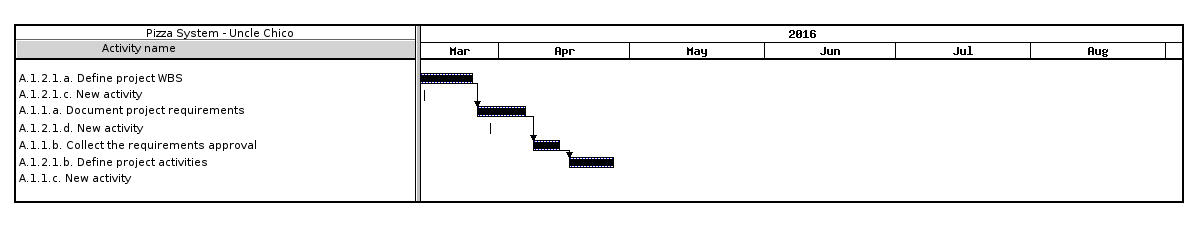
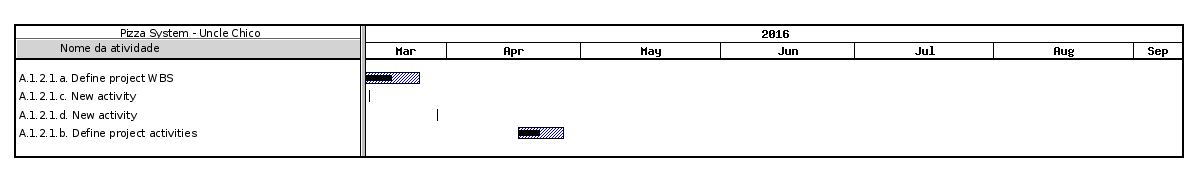
Ajustado título da tela da EAP e modificado menu lateral

Changed region(s): [[0.0, 0.0824, 0.9867, 0.9066], [0.4317, 0.6044, 0.5242, 0.7692]]

diff --git a/style/dotproject_plus/css/side-menu.css b/style/dotproject_plus/css/side-menu.css
@@ -63,15 +63,15 @@ a, a:hover, a:focus {
 }
 
 #sidebar {
-    /* don't forget to add all the previously mentioned styles here too */
-    background: #343a40;
-    color: #fff;
+    /*background: #343a40;*/
+    color: #343a40;
     transition: all 0.3s;
 }
 
 #sidebar .sidebar-header {
     padding: 20px;
-    background: #343a40;
+    color: #343a40;
+    /*background: #343a40;*/
 }
 
 #sidebar ul.components {
@@ -91,16 +91,18 @@ a, a:hover, a:focus {
     display: block;
 }
 #sidebar ul li a:hover {
+    text-decoration: underline;
     color: #343a40;
-    background: #fff;
+    background: #eee;
 }
 
 #sidebar ul li.active > a, #sidebar ul li.active > a[aria-expanded="true"] {
-    color: #fff;
-    background: #434a52;
+    color: #434a52;
+    background: #eee;
 }
 ul ul a {
     font-size: 0.9em !important;
     padding-left: 30px !important;
-    background: #434A52;
+    color: #343a40;
+    /*background: #434A52;*/
 }

diff --git a/modules/dotproject_plus/projects_tab.planning_and_monitoring.php b/modules/dotproject_plus/projects_tab.planning_and_monitoring.php
@@ -764,7 +764,8 @@ if ($_GET["show_external_page"] != "") {
     $currentPage = substr($_SERVER["REQUEST_URI"], strpos($_SERVER["REQUEST_URI"], "index.php") + 9);
 
     ?>
-    <h4><?=$AppUI->_("Planning and monitoring", UI_OUTPUT_HTML);?></h4>
+
+    <h4><?=$AppUI->_("Tasks",UI_OUTPUT_HTML)?></h4>
     <hr>
     <!-- Filter section -->
     <div class="row">
@@ -1107,6 +1108,9 @@ if ($_GET["show_external_page"] != "") {
                                 $taskCardBodyClass = $dom->createAttribute('class');
                                 $taskCardBodyClass->value = 'card-body';
                                 $taskCardBody->appendChild($taskCardBodyClass);
+                                $taskCardBodyStyle = $dom->createAttribute('style');
+                                $taskCardBodyStyle->value = 'padding: 10px 20px 1px 20px';
+                                $taskCardBody->appendChild($taskCardBodyStyle);
 
                                 $taskCardRow = $dom->createElement('div');
                                 $taskCardRowClass = $dom->createAttribute('class');
@@ -1354,8 +1358,28 @@ if ($_GET["show_external_page"] != "") {
                                 $spanClass->value = 'd-block';
                                 $span->appendChild($spanClass);
                                 $carCol6->appendChild($span);
-                                
+
                                 // Recursos humanos
+
+//                                $q = new DBQuery();
+//                                $q->addTable("contacts", 'c');
+//                                $q->addQuery("CONCAT(c.contact_first_name, ' ', c.contact_last_name)");
+//                                $q->addJoin('users', 'u', 'u.user_contact = c.contact_id');
+//                                $q->addJoin('human_resource', 'hr', 'hr.human_resource_user_id = u.user_id');
+//                                $q->addJoin('human_resource_allocation', 'hra', 'hra.human_resource_id = hr.human_resource_id');
+//                                $q->addJoin('project_tasks_estimated_roles', 'pter', 'hra.project_tasks_estimated_roles_id = pter.id');
+//                                $q->addWhere("pter.task_id=" . $task_id);
+//                                $sql = $q->prepare();
+//                                $q->clear();
+//                                $humanRes = db_loadList($sql);
+
+
+//                                foreach ($humanRes as $humanRe) {
+//                                    if ($task_id != 235) continue;
+//                                    var_dump($humanRes);
+//                                    $estimatedRolesTxt .= ', ' . $humanRe[0];
+//                                }
+//                                var_dump($estimatedRolesTxt);
                                 $estimatedRolesTxt = "";
                                 $rolesNonGrouped = $projectTaskEstimation->getRolesNonGrouped($task_id);
                                 $totalRoles = count($rolesNonGrouped);
@@ -1365,10 +1389,10 @@ if ($_GET["show_external_page"] != "") {
                                 // } else {
                                 //     $hasFilteredRH = false;
                                 // }
-                                
+//                                var_dump($rolesNonGrouped);
                                 foreach ($rolesNonGrouped as $role) {
                                     $role_estimated_id = $role->getQuantity(); // the quantity field is been used to store the estimated role id
-                                    $allocated_hr_id = ""; //Get the allocated HR  (maybe there is just the role without allocation, in this case write the role name)          
+                                    $allocated_hr_id = ""; //Get the allocated HR  (maybe there is just the role without allocation, in this case write the role name)
                                     //Get id of a possible old allocation to delete it
                                     $q = new DBQuery();
                                     $q->addTable("human_resource_allocation");
@@ -1376,13 +1400,16 @@ if ($_GET["show_external_page"] != "") {
                                     $q->addWhere("project_tasks_estimated_roles_id=" . $role_estimated_id);
                                     $sql = $q->prepare();
                                     $records = db_loadList($sql);
+
+
                                     foreach ($records as $record) {
                                         $allocated_hr_id = $record[0];
                                     }
+
                                     if ($allocated_hr_id != "") {
-                                        $estimatedRolesTxt.=$userNameByHRid[$allocated_hr_id]; //write user name
+                                        $estimatedRolesTxt.=$userNameByHRid[$allocated_hr_id];
                                     } else {
-                                        $estimatedRolesTxt.="<i style='color:red'>" . $roles[$role->getRoleId()] . "</i>";
+                                        $estimatedRolesTxt.= $roles[$role->getRoleId()];
                                     }
                                     if ($totalRoles > $i) {
                                         $estimatedRolesTxt.=", ";

diff --git a/modules/dotproject_plus/task_addedit.php b/modules/dotproject_plus/task_addedit.php
@@ -19,6 +19,13 @@ $project = new CProject();
 $project->load($projectId);
 $controllerCompanyRole = new ControllerCompanyRole();
 $rolesArr = $controllerCompanyRole->getCompanyRoles($project->project_company);
+
+
+// Todo carregar lista de papéis
+// human_resources_role
+
+
+
 $roles = array();
 foreach ($rolesArr as $r) {
 
@@ -141,6 +148,7 @@ $effortMetrics[2] = 'Pessoas/Dia';
                 $user_id = $res->fields["user_id"];
                 $user_name = $res->fields["contact_first_name"] . " " . $res->fields["contact_last_name"];
                 ?>
+                <option></option>
                 <option value="<?php echo $user_id; ?>">
                     <?php echo $user_name; ?>
                 </option>
@@ -156,7 +164,7 @@ $effortMetrics[2] = 'Pessoas/Dia';
             <div class="row row-role-hr">
                 <div class="col-md-6">
                     <div class="form-group">
-                        <select class="form-control form-control-sm">
+                        <select class="form-control form-control-sm select-role">
                             <?php
                             foreach ($roles as $r) {
                                 ?>
@@ -172,7 +180,7 @@ $effortMetrics[2] = 'Pessoas/Dia';
                 </div>
                 <div class="col-md-6">
                     <div class="form-group">
-                        <select class="form-control form-control-sm">
+                        <select class="form-control form-control-sm select-hr">
                             <?php
                             foreach ($hr as $record) {
                                 ?>
@@ -198,6 +206,8 @@ $effortMetrics[2] = 'Pessoas/Dia';
     <input name="roles_human_resources" type="hidden" value="" id="rolesHrHidden"/>
     <input type="hidden" id="taskWbsItemId" name="item_id" value="<?=$itemId?>" />
 </form>
+<?php
+?>
 
 <script>
 
@@ -221,15 +231,31 @@ $effortMetrics[2] = 'Pessoas/Dia';
             var selectsRoleHr = $(".row-role-hr").find('select');
             form.initSelect($(selectsRoleHr[0]), 'Papel');
             form.initSelect($(selectsRoleHr[1]), 'Recurso humano');
+
+
+
+
+
         },
 
         initSelect: function (select, placeholder) {
             select.select2({
                 placeholder: placeholder,
                 allowClear: true,
+                disabled: select.hasClass('select-hr') ? true : false,
                 theme: "bootstrap",
                 dropdownParent: $("#taskModal")
             });
+            if (select.hasClass('select-role')) {
+                var selectHr = select.parent().parent().next().children().children();
+                select.on('select2:select', function() {
+                    selectHr.attr('disabled', false);
+                });
+                select.on('select2:unselect', function() {
+                    selectHr.val(null).trigger('change');
+                    selectHr.attr('disabled', true);
+                });
+            }
         },
 
         addResource: function() {
@@ -238,7 +264,7 @@ $effortMetrics[2] = 'Pessoas/Dia';
 
             var colRole = $('<div class="col-md-6"></div>');
             var groupRole = $('<div class="form-group"></div>');
-            var selectRole = $('<select class="form-control form-control-sm"></select>');
+            var selectRole = $('<select class="form-control form-control-sm select-role"></select>');
             $('<option></option>').appendTo(selectRole);
             form.roles.forEach(function(role) {
                 $('<option value="'+role.id+'">'+role.name+'</option>').appendTo(selectRole);
@@ -249,7 +275,7 @@ $effortMetrics[2] = 'Pessoas/Dia';
 
             var colHr = $('<div class="col-md-6"></div>');
             var groupHr = $('<div class="form-group"></div>');
-            var selectHr = $('<select class="form-control form-control-sm"></select>');
+            var selectHr = $('<select class="form-control form-control-sm select-hr" disabled></select>');
             $('<option></option>').appendTo(selectHr);
             form.hrs.forEach(function(hr) {
                 $('<option value="'+hr.human_resource_id+'">'+hr.user_username+'</option>').appendTo(selectHr);

diff --git a/modules/projects/view.php b/modules/projects/view.php
@@ -171,22 +171,21 @@ $style = ((($actual_end_date > $end_date) && !empty($end_date)) ? 'style="color:
 </form>
 
 <!-- start main section - left project menu and EAP and tasks tree -->
-
 <!-- Sidebar -->
-<nav id="sidebar">
+<nav id="sidebar" style="margin-top:70px;">
     <div class="sidebar-header">
         <h5 class="text-right">
             <i id="sidebarCollapse" class="mouse-cursor-pointer fas fa-angle-double-left" style="margin-top: 20px;"></i>
         </h5>
     </div>
     <?php
-        if (!isset($_GET["tab"])) {
-            $tab = 1;
-            $_SESSION["user_choosen_feature"] = "/modules/dotproject_plus/projects_tab.planning_and_monitoring.php";
-        } else {
-            $tab = $_GET["tab"];
-            $_SESSION["user_choosen_feature"] = $_POST["user_choosen_feature"];
-        }
+//        if (!isset($_GET["tab"])) {
+//            $tab = 1;
+//            $_SESSION["user_choosen_feature"] = "/modules/dotproject_plus/projects_tab.planning_and_monitoring.php";
+//        } else {
+//            $tab = $_GET["tab"];
+//            $_SESSION["user_choosen_feature"] = $_POST["user_choosen_feature"];
+//        }
 
         if (!isset($_GET["subtab"])) {
             $subtab = 0;
@@ -279,7 +278,12 @@ $style = ((($actual_end_date > $end_date) && !empty($end_date)) ? 'style="color:
 </nav>
 
 <!-- Page Content -->
-<div id="content">
+<div id="content" style="margin-top:70px;">
+    <div class="row" style="position: relative; top: -60px; left: -290px;">
+        <div class="col-md-12">
+            <h1>aqui vai os dads do projeto</h1>
+        </div>
+    </div>
     <fieldset>
         <div class="alert alert-primary" role="alert" style="display: none">
             <a class="alert-link" id="projectDetailsLink" data-toggle="collapse" href="#project_details">

diff --git a/modules/dotproject_plus/do_save_activity_estimations.php b/modules/dotproject_plus/do_save_activity_estimations.php
@@ -22,6 +22,7 @@ $startDate = $_POST["planned_start_date_activity"];
 $endDate = $_POST["planned_end_date_activity"];
 $task_percent_complete=$_POST["task_percent_complete"];
 
+
 $rolesHr = $_POST['roles_human_resources'];
 
 $rolesHr = json_decode($rolesHr, true);
@@ -103,7 +104,6 @@ $projectTaskEstimation->store($taskId, $duration, $effort, $effortUnit, $rolesId
 $allocationRoleHR= new CHumanResourceAllocation();
 $allocationRoleHR->delete($taskId);
 
-
 // Insert the new ones
 foreach ($rolesHr as $line) {
     if (null !== $line['hr']) {
@@ -112,12 +112,12 @@ foreach ($rolesHr as $line) {
         $q->addQuery("id");
         $q->addWhere("role_id=".$line['role']." and task_id=".$taskId);
         $sql = $q->prepare();
+        $q->clear();
         $records = db_loadList($sql);
-        $allocationRoleHR->human_resource_id = $line['hr'];
-        $allocationRoleHR->project_tasks_estimated_roles_id=$records[0][0];
+//        $allocationRoleHR->human_resource_id = $line['hr'];
+//        $allocationRoleHR->project_tasks_estimated_roles_id=$records[0][0];
         $userId=getUserIdByHR($line['hr']);
-        $allocationRoleHR->store($taskId, $userId);
-        $i++;
+        $allocationRoleHR->store($taskId, $userId, $line['hr'], $records[0][0]);
     }
 
 }

diff --git a/style/dotproject_plus/header.php b/style/dotproject_plus/header.php
@@ -85,8 +85,8 @@ mysql_query('SET character_set_results=utf8');
             <ul class="navbar-nav">
                 <!-- Dropdown -->
                 <li class="nav-item dropdown">
-                    <a class="nav-link dropdown-toggle" href="#" id="navbardrop" data-toggle="dropdown">
-                        <?php echo $AppUI->user_first_name . ' ' . $AppUI->user_last_name; ?>
+                    <a class="nav-link dropdown-toggle" href="javascript:void(0)" data-toggle="dropdown">
+                        <?=$AppUI->user_first_name . ' ' . $AppUI->user_last_name; ?>
                     </a>
                     <div class="dropdown-menu dropdown-menu-right">
                         <a class="dropdown-item" href="./index.php?m=admin&amp;a=viewuser&amp;user_id=<?php echo $AppUI->user_id ?>">

diff --git a/modules/human_resources/human_resources.class.php b/modules/human_resources/human_resources.class.php
@@ -82,7 +82,7 @@ class CHumanResourceAllocation extends CDpObject {
 		return true;
 	}
 	
-	function store($task_id, $user_id) {
+	function store($task_id, $user_id, $hrId, $taskEstmatedRoleId) {
 		
 		$q = new DBQuery;		
 		$q->addTable('user_tasks');
@@ -99,8 +99,15 @@ class CHumanResourceAllocation extends CDpObject {
 			$q->addInsert('perc_assignment', '100');
 			$q->exec();
 			$q->clear();
-		}		
-		return parent::store();
+		}
+		// It is filing here and I have no idea why...
+//		return parent::store();
+		// Workaround
+        $q->addTable('human_resource_allocation');
+        $q->addInsert('human_resource_id', $hrId);
+        $q->addInsert('project_tasks_estimated_roles_id', $taskEstmatedRoleId);
+        $q->exec();
+        $q->clear();
 	}
 	
 	function delete($task_id) {
